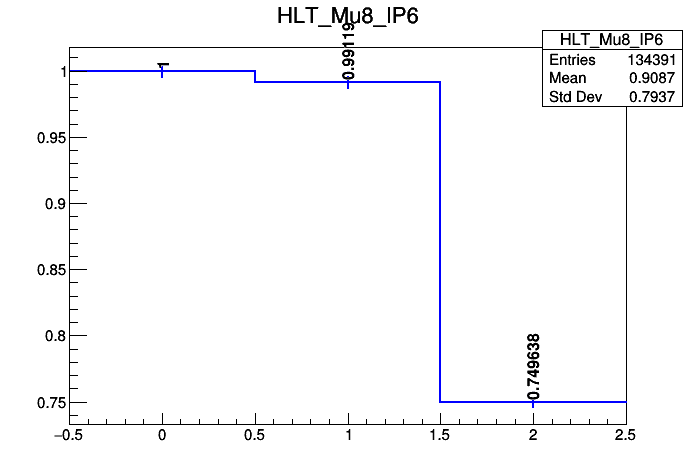
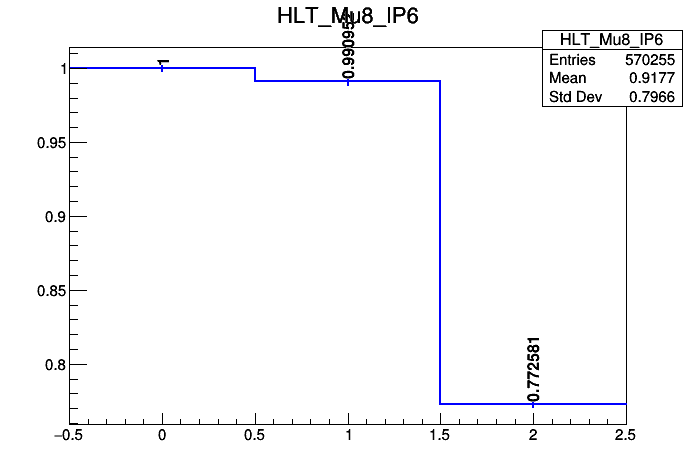
Added 200k event parked plots

diff --git a/snek.py b/snek.py
@@ -75,16 +75,17 @@ def main(batch=0):
     f_prefix = False
     if batch > 0:                   ## Handles batch processing
         file_names.append(sys.argv[batch])
-    elif (len(sys.argv) > 1):       ## Allows for files to be given as arguments
-        ## Experimental text file mode still in development
+    elif (len(sys.argv) > 1):                               ## Allows for files to be given as arguments
+        ## Takes a file that is in turn a list of files
         if sys.argv[1] == '-f':
             with open(sys.argv[2],'r') as rfile:
                 for line in rfile:
                     file_names.append(line.strip('\n'))
             if len(sys.argv) > 2: f_prefix = sys.argv[3]    ## Tries to get the new file prefix from the user
             else: f_prefix = 'xrootd'                       ## Or just sets it to a default
+        ## Uses the supplied arguments as filenames
         else:
-            for i in range(len(sys.argv)-1):
+            for i in range(len(sys.argv)-1):                
                 if sys.argv[i+1] == "-d":
                     DATA = True
                 else: file_names.append(sys.argv[i+1])
